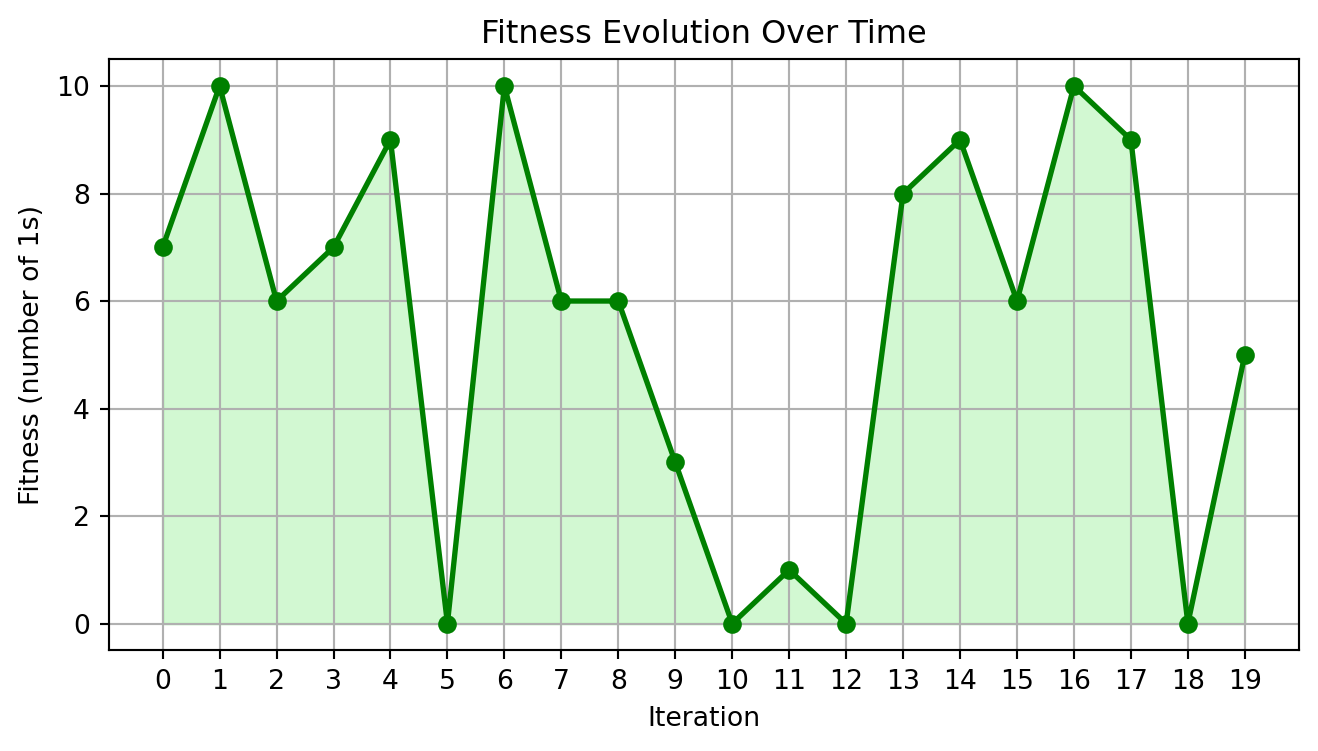
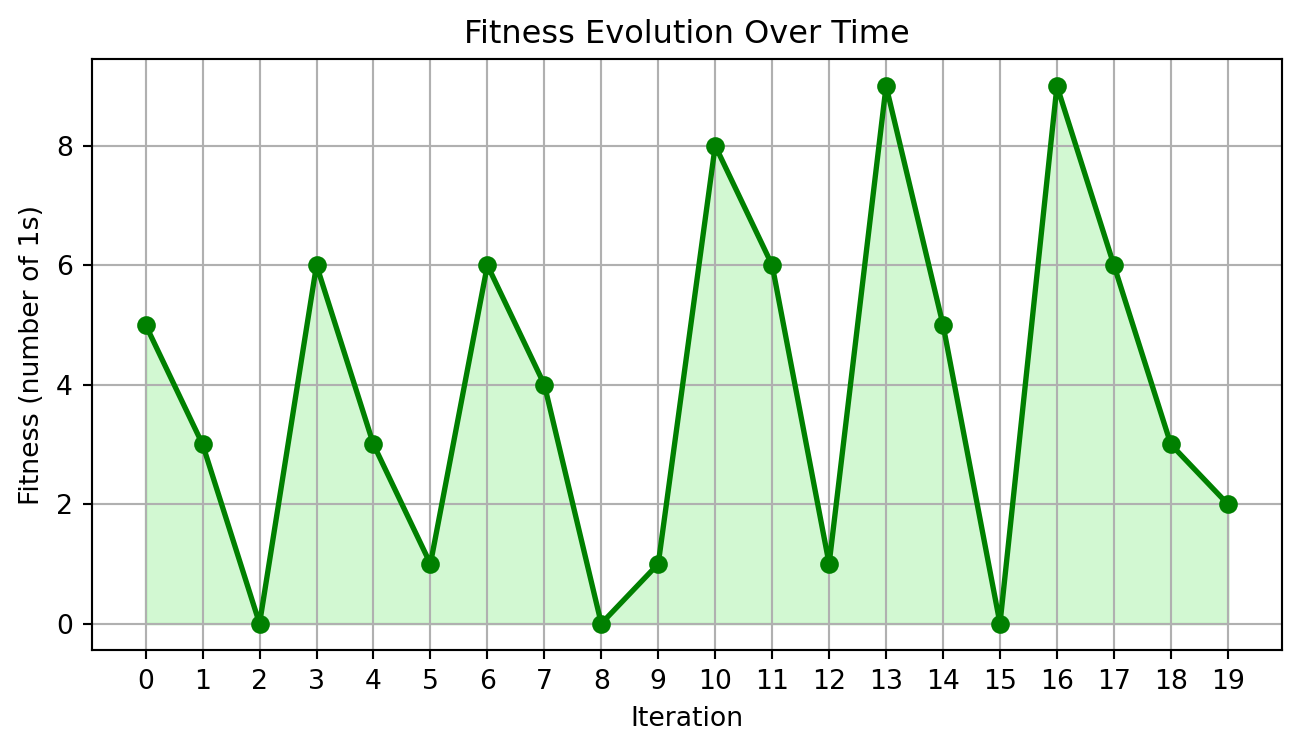
Fixed LaTex error

diff --git a/docs/benchmark.html b/docs/benchmark.html
@@ -380,7 +380,7 @@ PRINT "Fitness (number of 1s):", fitness
 </section>
 <section id="onemax-python-implementation" class="level3">
 <h3 class="anchored" data-anchor-id="onemax-python-implementation">OneMax Python Implementation</h3>
-<div id="6e85b793" class="cell" data-execution_count="1">
+<div id="3f6b43f5" class="cell" data-execution_count="1">
 <div class="sourceCode cell-code" id="cb2"><pre class="sourceCode python code-with-copy"><code class="sourceCode python"><span id="cb2-1"><a href="#cb2-1" aria-hidden="true" tabindex="-1"></a><span class="im">import</span> numpy <span class="im">as</span> np</span>
 <span id="cb2-2"><a href="#cb2-2" aria-hidden="true" tabindex="-1"></a><span class="im">import</span> matplotlib.pyplot <span class="im">as</span> plt</span>
 <span id="cb2-3"><a href="#cb2-3" aria-hidden="true" tabindex="-1"></a><span class="im">import</span> seaborn <span class="im">as</span> sns</span>
@@ -416,13 +416,13 @@ PRINT "Fitness (number of 1s):", fitness
 <span id="cb2-33"><a href="#cb2-33" aria-hidden="true" tabindex="-1"></a>plt.grid(<span class="va">True</span>)</span>
 <span id="cb2-34"><a href="#cb2-34" aria-hidden="true" tabindex="-1"></a>plt.show()</span></code><button title="Copy to Clipboard" class="code-copy-button"><i class="bi"></i></button></pre></div>
 <div class="cell-output cell-output-stdout">
-<pre><code>Binary string: [1 1 0 1 1 1 0 1 0 1]
-Fitness (number of 1s): 7</code></pre>
+<pre><code>Binary string: [1 1 0 1 0 1 0 1 0 0]
+Fitness (number of 1s): 5</code></pre>
 </div>
 <div class="cell-output cell-output-display">
 <div>
 <figure class="figure">
-<p><img src="benchmark_files/figure-html/cell-2-output-2.png" width="659" height="376" class="figure-img"></p>
+<p><img src="benchmark_files/figure-html/cell-2-output-2.png" width="651" height="376" class="figure-img"></p>
 </figure>
 </div>
 </div>
@@ -438,7 +438,7 @@ Fitness (number of 1s): 7</code></pre>
 <li>Without knowledge of the landscape of the solution space, the search process will easily get stuck in the peaks of this solution space.</li>
 <li>Hence, most researchers prefer using the one-max problem as an example because it is easy to implement and also because it can be used to prove if a new concept for a search algorithm is correct.</li>
 </ul>
-<div id="5df7b5c3" class="cell" data-execution_count="2">
+<div id="a5a71f17" class="cell" data-execution_count="2">
 <div class="cell-output cell-output-display">
 <div>
 <figure class="figure">
@@ -668,7 +668,7 @@ PRINT Ackley function result for vector s
 </section>
 <section id="ackley-function-python-implementation" class="level4">
 <h4 class="anchored" data-anchor-id="ackley-function-python-implementation">Ackley Function Python Implementation</h4>
-<div id="753a09be" class="cell" data-execution_count="3">
+<div id="fbd2a910" class="cell" data-execution_count="3">
 <div class="sourceCode cell-code" id="cb5"><pre class="sourceCode python code-with-copy"><code class="sourceCode python"><span id="cb5-1"><a href="#cb5-1" aria-hidden="true" tabindex="-1"></a><span class="im">import</span> numpy <span class="im">as</span> np</span>
 <span id="cb5-2"><a href="#cb5-2" aria-hidden="true" tabindex="-1"></a><span class="im">import</span> matplotlib.pyplot <span class="im">as</span> plt</span>
 <span id="cb5-3"><a href="#cb5-3" aria-hidden="true" tabindex="-1"></a><span class="im">from</span> mpl_toolkits.mplot3d <span class="im">import</span> Axes3D</span>
@@ -742,7 +742,7 @@ Ackley function result: 17.91745666838746</code></pre>
 <li>Differential Evolution is a population-based optimization algorithm used for solving complex multidimensional problems. It belongs to the family of evolutionary algorithms, where a population of candidate solutions evolves over time to find the global optimum of a function.</li>
 <li>The differential_evolution function from the scipy.optimize module is a powerful optimization tool designed to solve global optimization problems. It is a type of evolutionary algorithm, which is used when the function to optimize is non-linear, has many local minima, or is not differentiable.</li>
 </ul>
-<div id="ed105e26" class="cell" data-execution_count="4">
+<div id="9d9beef2" class="cell" data-execution_count="4">
 <div class="sourceCode cell-code" id="cb7"><pre class="sourceCode python code-with-copy"><code class="sourceCode python"><span id="cb7-1"><a href="#cb7-1" aria-hidden="true" tabindex="-1"></a><span class="im">import</span> numpy <span class="im">as</span> np</span>
 <span id="cb7-2"><a href="#cb7-2" aria-hidden="true" tabindex="-1"></a><span class="im">from</span> scipy.optimize <span class="im">import</span> differential_evolution</span>
 <span id="cb7-3"><a href="#cb7-3" aria-hidden="true" tabindex="-1"></a><span class="im">import</span> matplotlib.pyplot <span class="im">as</span> plt</span>
@@ -843,7 +843,7 @@ Function value at minimum: 4.440892098500626e-16</code></pre>
 <li>Convexity: The Pareto front of the Schaffer min-min problem is convex, making it relatively easy to identify the trade-off surface between the two objectives.</li>
 <li>Graphically, the Pareto front of the Schaffer min-min problem can be visualized as a curve in the objective space, where <span class="math inline">\(f_1(x)\)</span> is plotted against <span class="math inline">\(f_2(x)\)</span> and the curve represents the set of optimal trade-offs between the two objectives.</li>
 </ul>
-<div id="b9ac9266" class="cell" data-execution_count="5">
+<div id="090f2bf9" class="cell" data-execution_count="5">
 <div class="cell-output cell-output-display">
 <div>
 <figure class="figure">
@@ -925,7 +925,7 @@ PRINT "Combined objective:", combined_objective(result.x)
 <li>Optimization Loop: Iteratively updates the solutions to find the minimum combined score using an optimization technique (e.g., gradient descent, genetic algorithm).</li>
 <li>The plot uses the weighted sum minimization, w1 * f1(s) + w2 * f2(s) instead of plotting the Pareto front. The plot prints The optimal <span class="math inline">\(s\)</span> value and the corresponding function values <span class="math inline">\(f1(s)\)</span> and <span class="math inline">\(f2(s)\)</span> at that point. The minimum combined objective function value.</li>
 </ul>
-<div id="2726fa53" class="cell" data-execution_count="6">
+<div id="edb7c666" class="cell" data-execution_count="6">
 <div class="sourceCode cell-code" id="cb10"><pre class="sourceCode python code-with-copy"><code class="sourceCode python"><span id="cb10-1"><a href="#cb10-1" aria-hidden="true" tabindex="-1"></a><span class="im">import</span> numpy <span class="im">as</span> np</span>
 <span id="cb10-2"><a href="#cb10-2" aria-hidden="true" tabindex="-1"></a><span class="im">from</span> scipy.optimize <span class="im">import</span> minimize</span>
 <span id="cb10-3"><a href="#cb10-3" aria-hidden="true" tabindex="-1"></a><span class="im">import</span> matplotlib.pyplot <span class="im">as</span> plt</span>
@@ -1010,10 +1010,10 @@ Combined objective: 1.0000000000000002</code></pre>
 <li>These values are very close to 1 for both <span class="math inline">\(f_1\)</span> and <span class="math inline">\(f_2\)</span>, indicating that the function values at this <span class="math inline">\(s\)</span> are near-optimal.</li>
 </ul></li>
 <li><p>Combined objective: The combined objective (likely calculated as a weighted sum or some other combination of <span class="math inline">\(f_1\)</span> and <span class="math inline">\(f_2\)</span> is 1.00000, which is extremely close to the expected combined optimal value of 1. This negligible difference suggests that the optimization algorithm has performed very well.</p></li>
-<li><p>Here is the code used to generate the Pareto Front for the Schaffer Min-Min problem, filtering out only the non-dominated solutions and plotting the trade-off curve. This allows us to see <span class="math inline">\(f_1\)</span> and $<span class="math inline">\(f_2\)</span> on the x and y axis.</p></li>
+<li><p>Here is the code used to generate the Pareto Front for the Schaffer Min-Min problem, filtering out only the non-dominated solutions and plotting the trade-off curve. This allows us to see <span class="math inline">\(f_1\)</span> and <span class="math inline">\(f_2\)</span> on the x and y axis.</p></li>
 <li><p>There are so many ways to graph this, but the multiple dimensions makes it more difficult to see. Explore some options using generative AI.</p></li>
 </ul>
-<div id="3f36a805" class="cell" data-execution_count="7">
+<div id="b1188204" class="cell" data-execution_count="7">
 <div class="sourceCode cell-code" id="cb12"><pre class="sourceCode python code-with-copy"><code class="sourceCode python"><span id="cb12-1"><a href="#cb12-1" aria-hidden="true" tabindex="-1"></a><span class="co"># Generate s values</span></span>
 <span id="cb12-2"><a href="#cb12-2" aria-hidden="true" tabindex="-1"></a>s_values <span class="op">=</span> np.linspace(<span class="op">-</span><span class="dv">10</span>, <span class="dv">10</span>, <span class="dv">400</span>)</span>
 <span id="cb12-3"><a href="#cb12-3" aria-hidden="true" tabindex="-1"></a></span>
